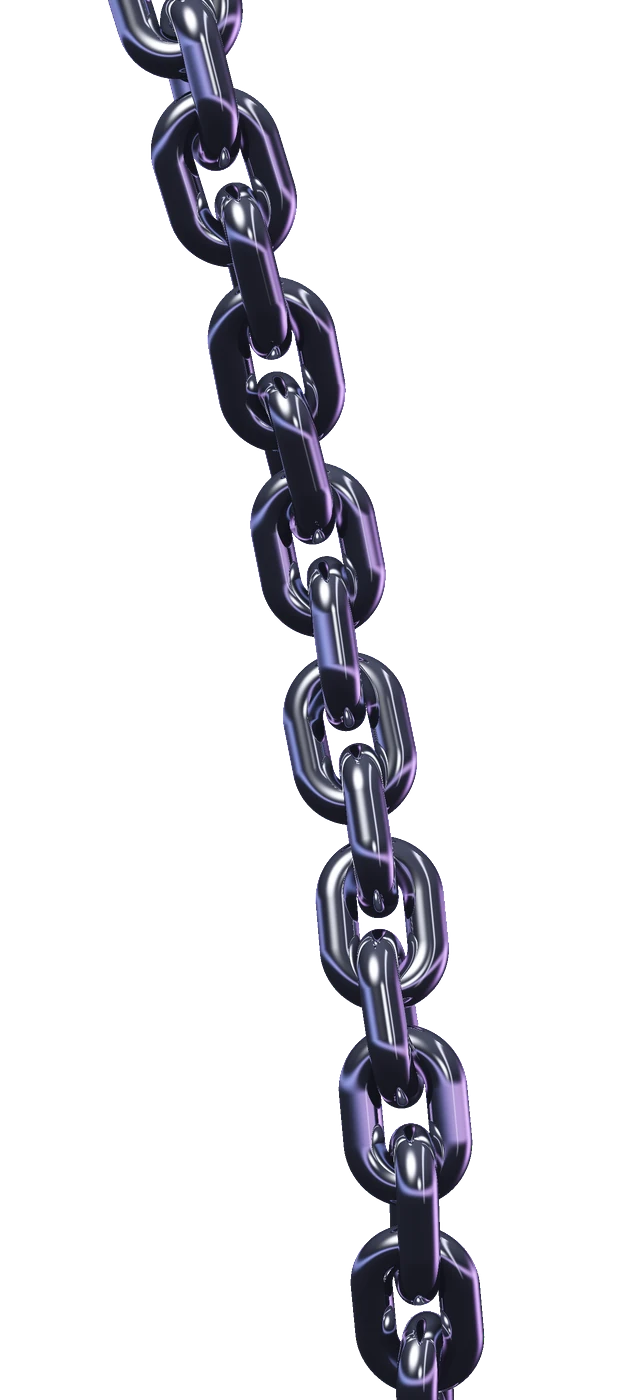
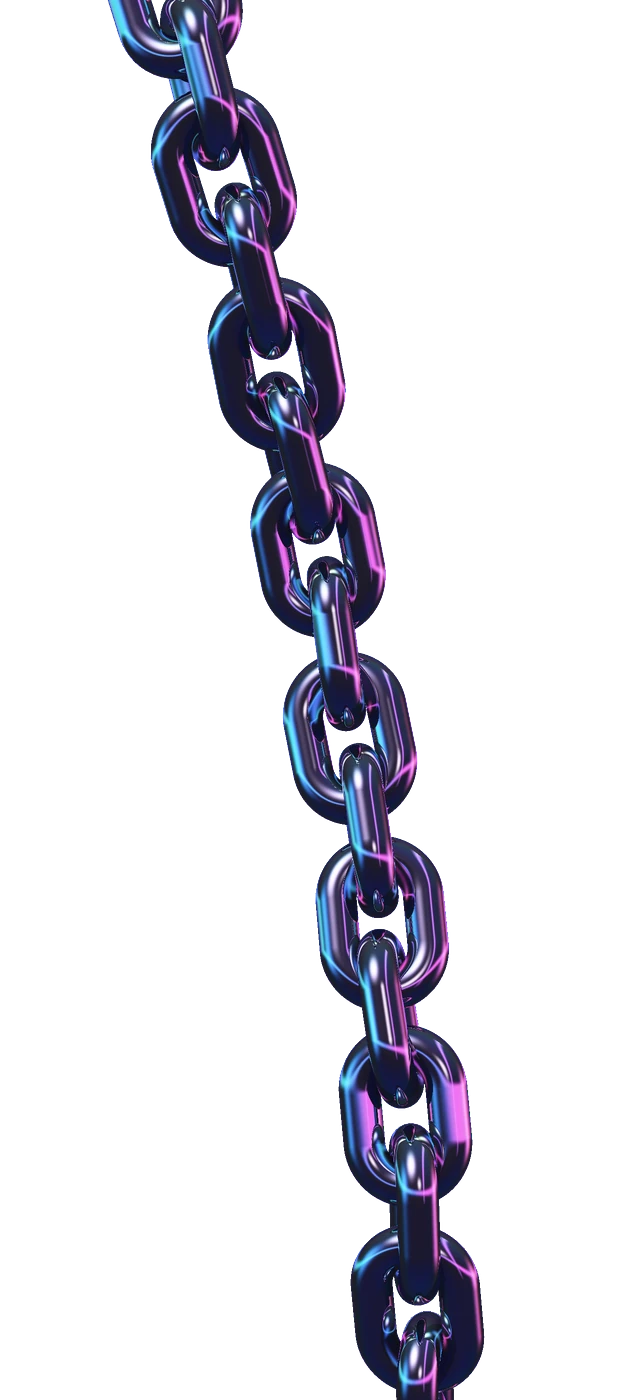
Ledger Cybercore: saturated iridescent chrome on the chain
Cyan, electric blue and magenta studio lights plus a thin-film sheen that shifts
with viewing angle, kept tight so the chrome still has deep blacks between them.

Claude-Session: https://claude.ai/code/session_012qJT2VWFr5eYKh4P8pA6Bz

Changed region(s): [[0.1562, 0.0, 0.75, 1.0]]

diff --git a/docs/ledger/sw.js b/docs/ledger/sw.js
@@ -1,6 +1,6 @@
 // Ledger's offline support, separate from The System's (this one only covers /ledger/).
 // Bump VERSION on every release so phones pick up the new files.
-const VERSION = 'l1.1.0';
+const VERSION = 'l1.1.1';
 const SHELL = ['./', 'index.html', 'ledger.css', 'ledger.js', 'themes.js', 'lsync.js', 'manifest.webmanifest',
   'icons/icon-192.png', 'icons/apple-touch-icon.png', 'art/chain.webp', '../vendor/firebase.js'];
 const FONT_HOSTS = ['fonts.googleapis.com', 'fonts.gstatic.com'];

diff --git a/tools/chain_render.py b/tools/chain_render.py
@@ -66,30 +66,43 @@ def march(o, d, links, tmax, steps=140):
     return t, hit
 
 # ---- environment: black studio, a cold blue-violet band at the horizon, a big soft key light above-left
+STYLE = os.environ.get('CSTYLE', 'neon')
+
 def env(r):
     x, y, z = r[:, 0], r[:, 1], r[:, 2]
     c = np.zeros_like(r)
-    c += np.array([.010, .011, .020]) * (1 + y[:, None])                      # deep navy black
-    band = np.exp(-((y - .02) / .075) ** 2)[:, None] * .7
-    hue = np.clip((x + 1) / 2, 0, 1)[:, None]                                 # blue on the left, violet on the right
-    c += band * (np.array([.36, .44, 1.25]) * (1 - hue) + np.array([.78, .45, 1.2]) * hue) * (.55 + .45 * np.exp(-(z - .6) ** 2 / .5))[:, None]
-    key = np.exp(-np.sum((r - norm(np.array([-.45, .72, .55]))) ** 2, 1) / .06)[:, None]
-    c += key * np.array([6.5, 6.6, 7.2])
+    c += np.array([.010, .011, .024]) * (1 + y[:, None])                      # deep navy black
+    # horizon band sweeping cyan -> electric blue -> violet -> magenta across the room
+    u = np.clip((x + 1) / 2, 0, 1)
+    stops = np.array([[0.1, 1.0, 1.6], [0.15, 0.32, 2.0], [0.75, 0.22, 1.9], [1.9, 0.18, 1.1]])
+    f = u * 3; i = np.minimum(f.astype(int), 2); fr = (f - i)[:, None]
+    hue = stops[i] * (1 - fr) + stops[i + 1] * fr
+    band = np.exp(-((y - .02) / .055) ** 2)[:, None] * 1.3
+    c += band * hue * (.6 + .4 * np.exp(-(z - .5) ** 2 / .6))[:, None]
+    key = np.exp(-np.sum((r - norm(np.array([-.45, .72, .55]))) ** 2, 1) / .05)[:, None]
+    c += key * np.array([5.0, 5.8, 8.0])                                      # cool white key, top left
     glint = np.exp(-np.sum((r - norm(np.array([.2, .3, 1.]))) ** 2, 1) / .012)[:, None]
-    c += glint * np.array([2.6, 2.7, 3.0])                                    # small softbox behind the camera
-    sky = np.clip(y - .25, 0, 1)[:, None]
-    c += sky * np.array([.05, .055, .085])
+    c += glint * np.array([2.4, 2.6, 3.2])
+    left = np.exp(-np.sum((r - norm(np.array([-1., .1, .25]))) ** 2, 1) / .06)[:, None]
+    c += left * np.array([.15, .95, 2.6])                                     # electric cyan-blue panel, left
+    rim = np.exp(-np.sum((r - norm(np.array([.95, -.05, -.2]))) ** 2, 1) / .05)[:, None]
+    c += rim * np.array([2.8, .25, 1.8])                                      # hot magenta rim, right
     strip = (np.exp(-((x - .55) / .05) ** 2) * np.clip(y + .3, 0, 1) * (z > -.2))[:, None]
-    c += strip * np.array([1.2, 1.15, 1.6])                                   # thin vertical strip light, right
-    rim = np.exp(-np.sum((r - norm(np.array([.9, -.15, -.4]))) ** 2, 1) / .08)[:, None]
-    c += rim * np.array([1.1, .55, 1.9])                                      # violet rim from behind
+    c += strip * np.array([1.3, .45, 2.6])                                    # violet strip light
+    sky = np.clip(y - .25, 0, 1)[:, None]
+    c += sky * np.array([.02, .025, .07])
     floor = np.clip(-y - .25, 0, 1)[:, None]
-    c = c * (1 - floor * .85) + floor * np.array([.006, .006, .012])
+    c = c * (1 - floor * .8) + floor * np.array([.005, .01, .06])              # blue bounce from below
     return c
 
 def chrome(n, v):
     cos = np.clip(-np.sum(n * v, 1), 0, 1)[:, None]
-    return np.array([.80, .82, .88]) + (1 - np.array([.80, .82, .88])) * (1 - cos) ** 5
+    base = np.array([.78, .80, .90])
+    F = base + (1 - base) * (1 - cos) ** 5
+    # thin-film sheen: the colour drifts with viewing angle, like anodised / oil-slick chrome
+    ph = 1.6 * (1 - cos) + .18 * n[:, 1:2]
+    film = .62 + .38 * np.cos(2 * np.pi * (ph + np.array([0, .33, .67])))
+    return F * (film * .55 + .45)
 
 def render():
     w, h = W * SS, H * SS
